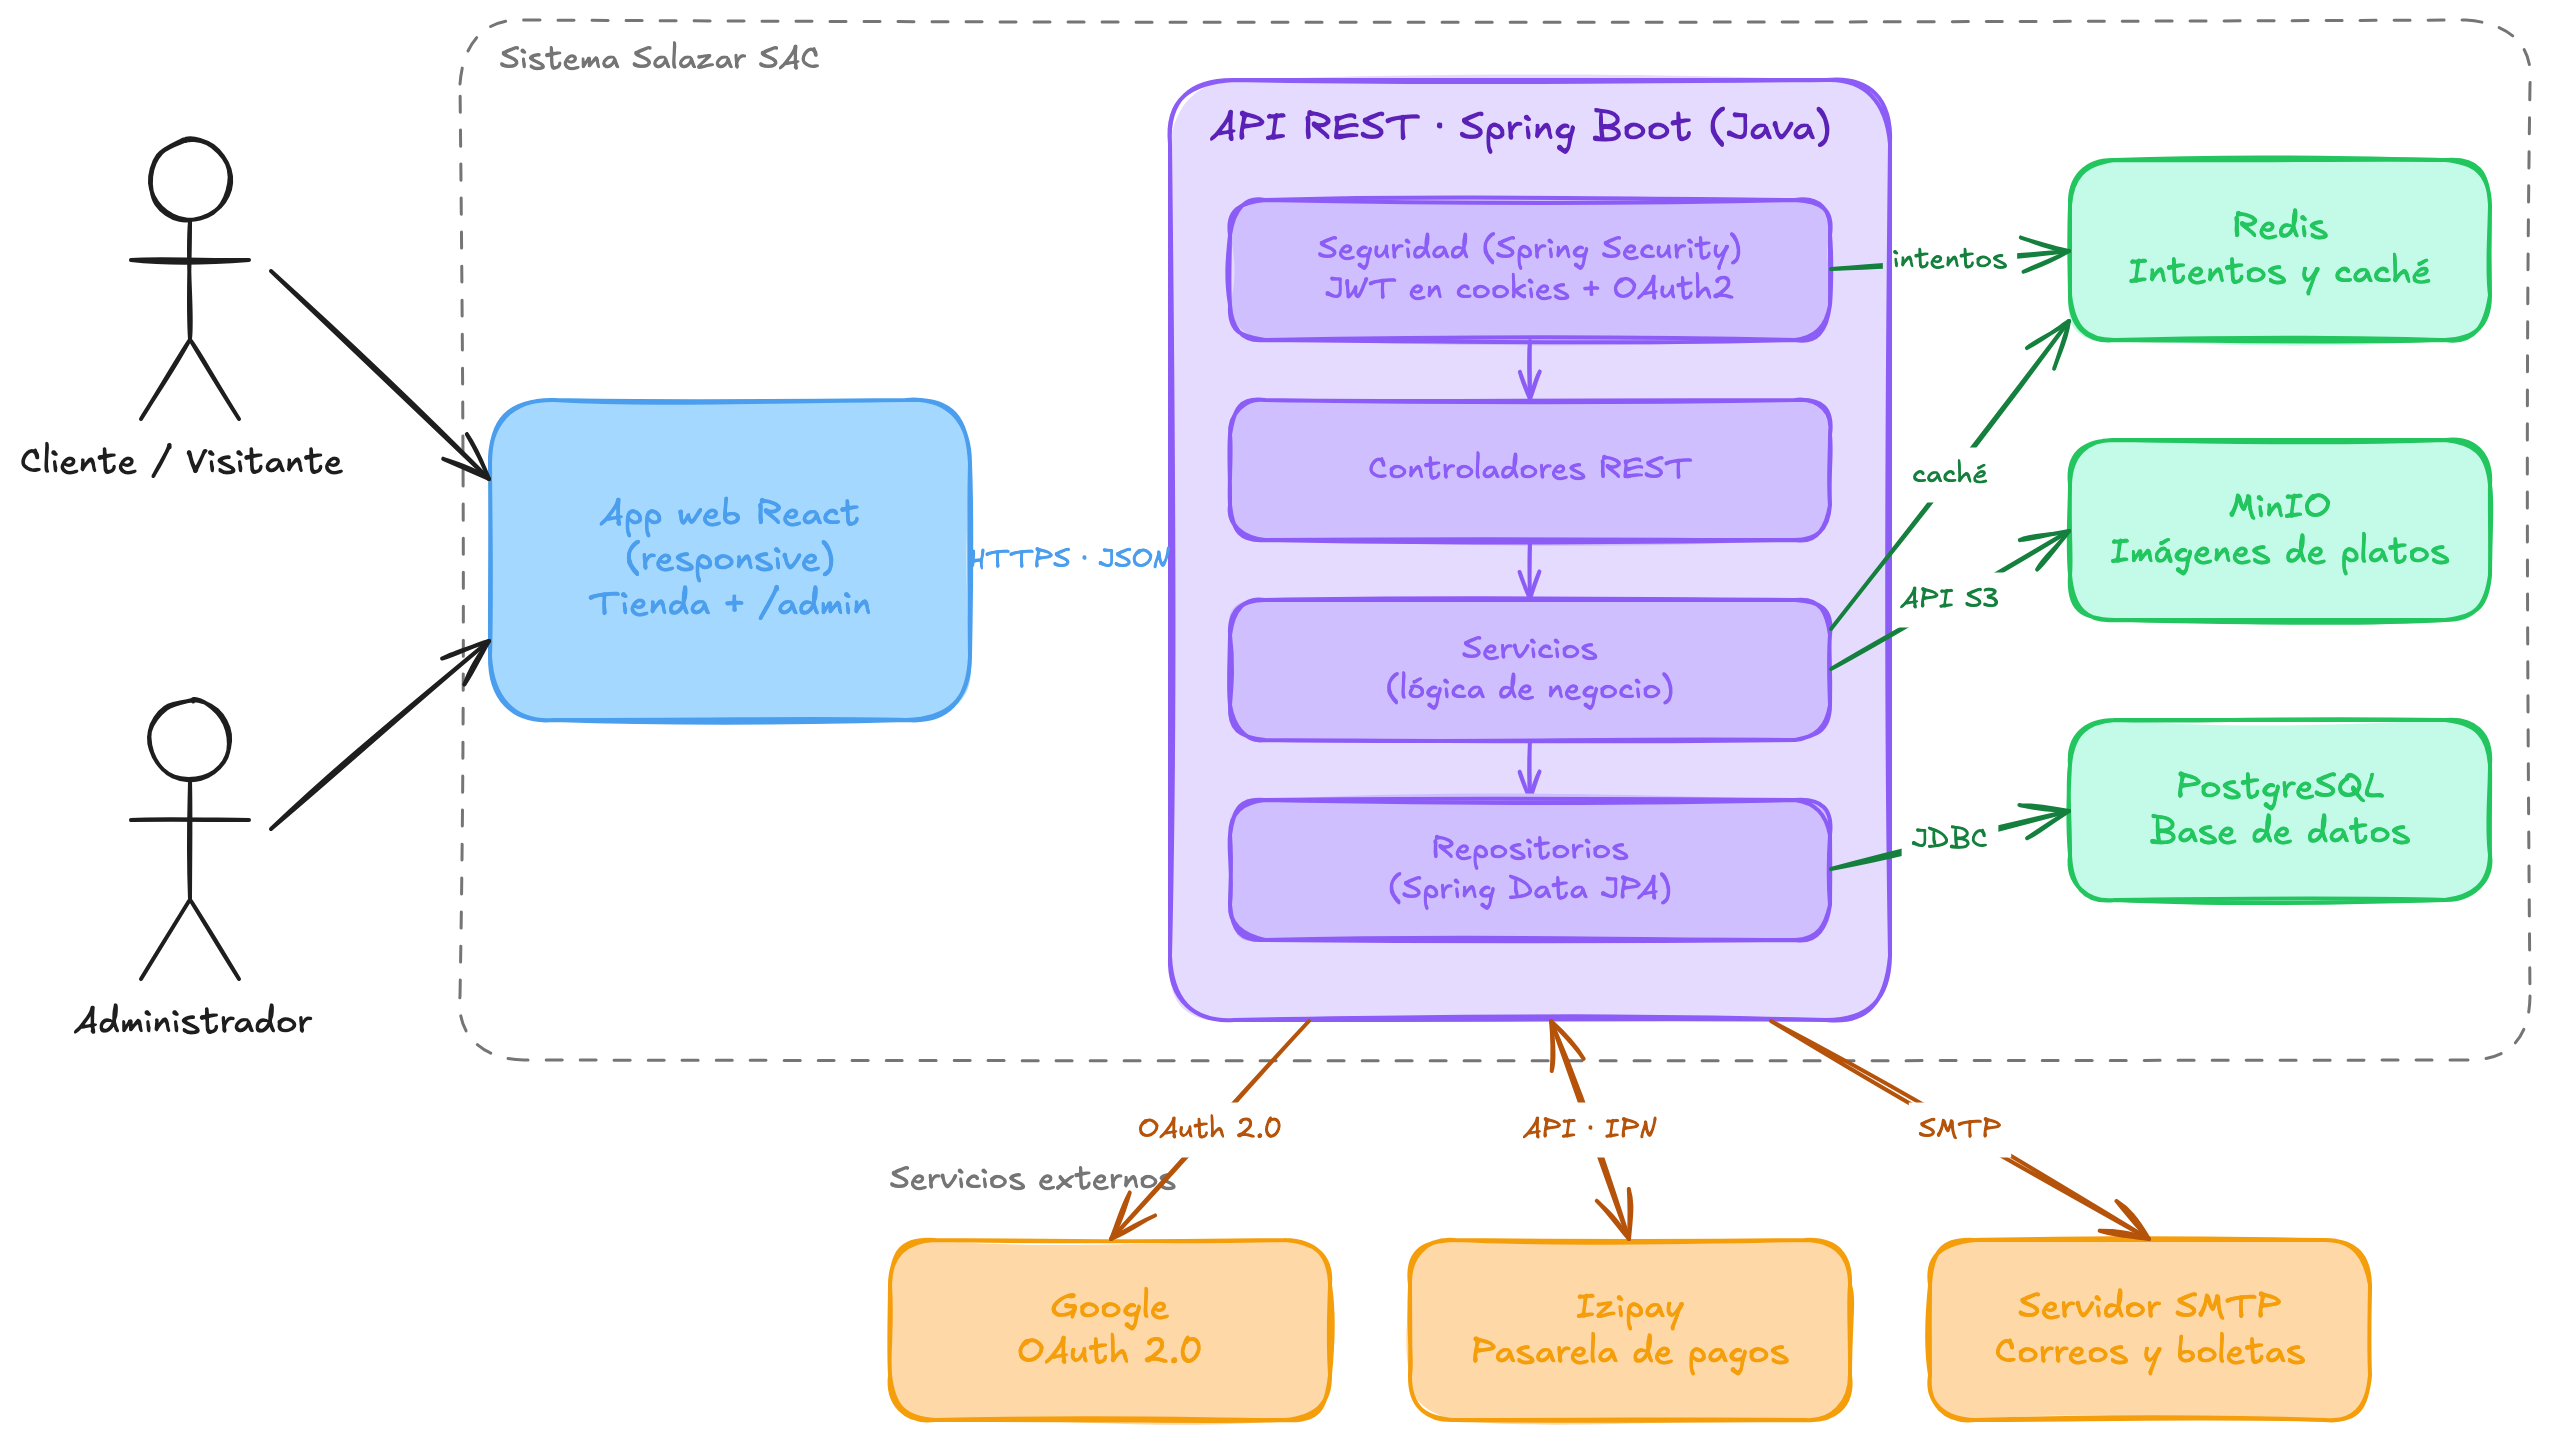
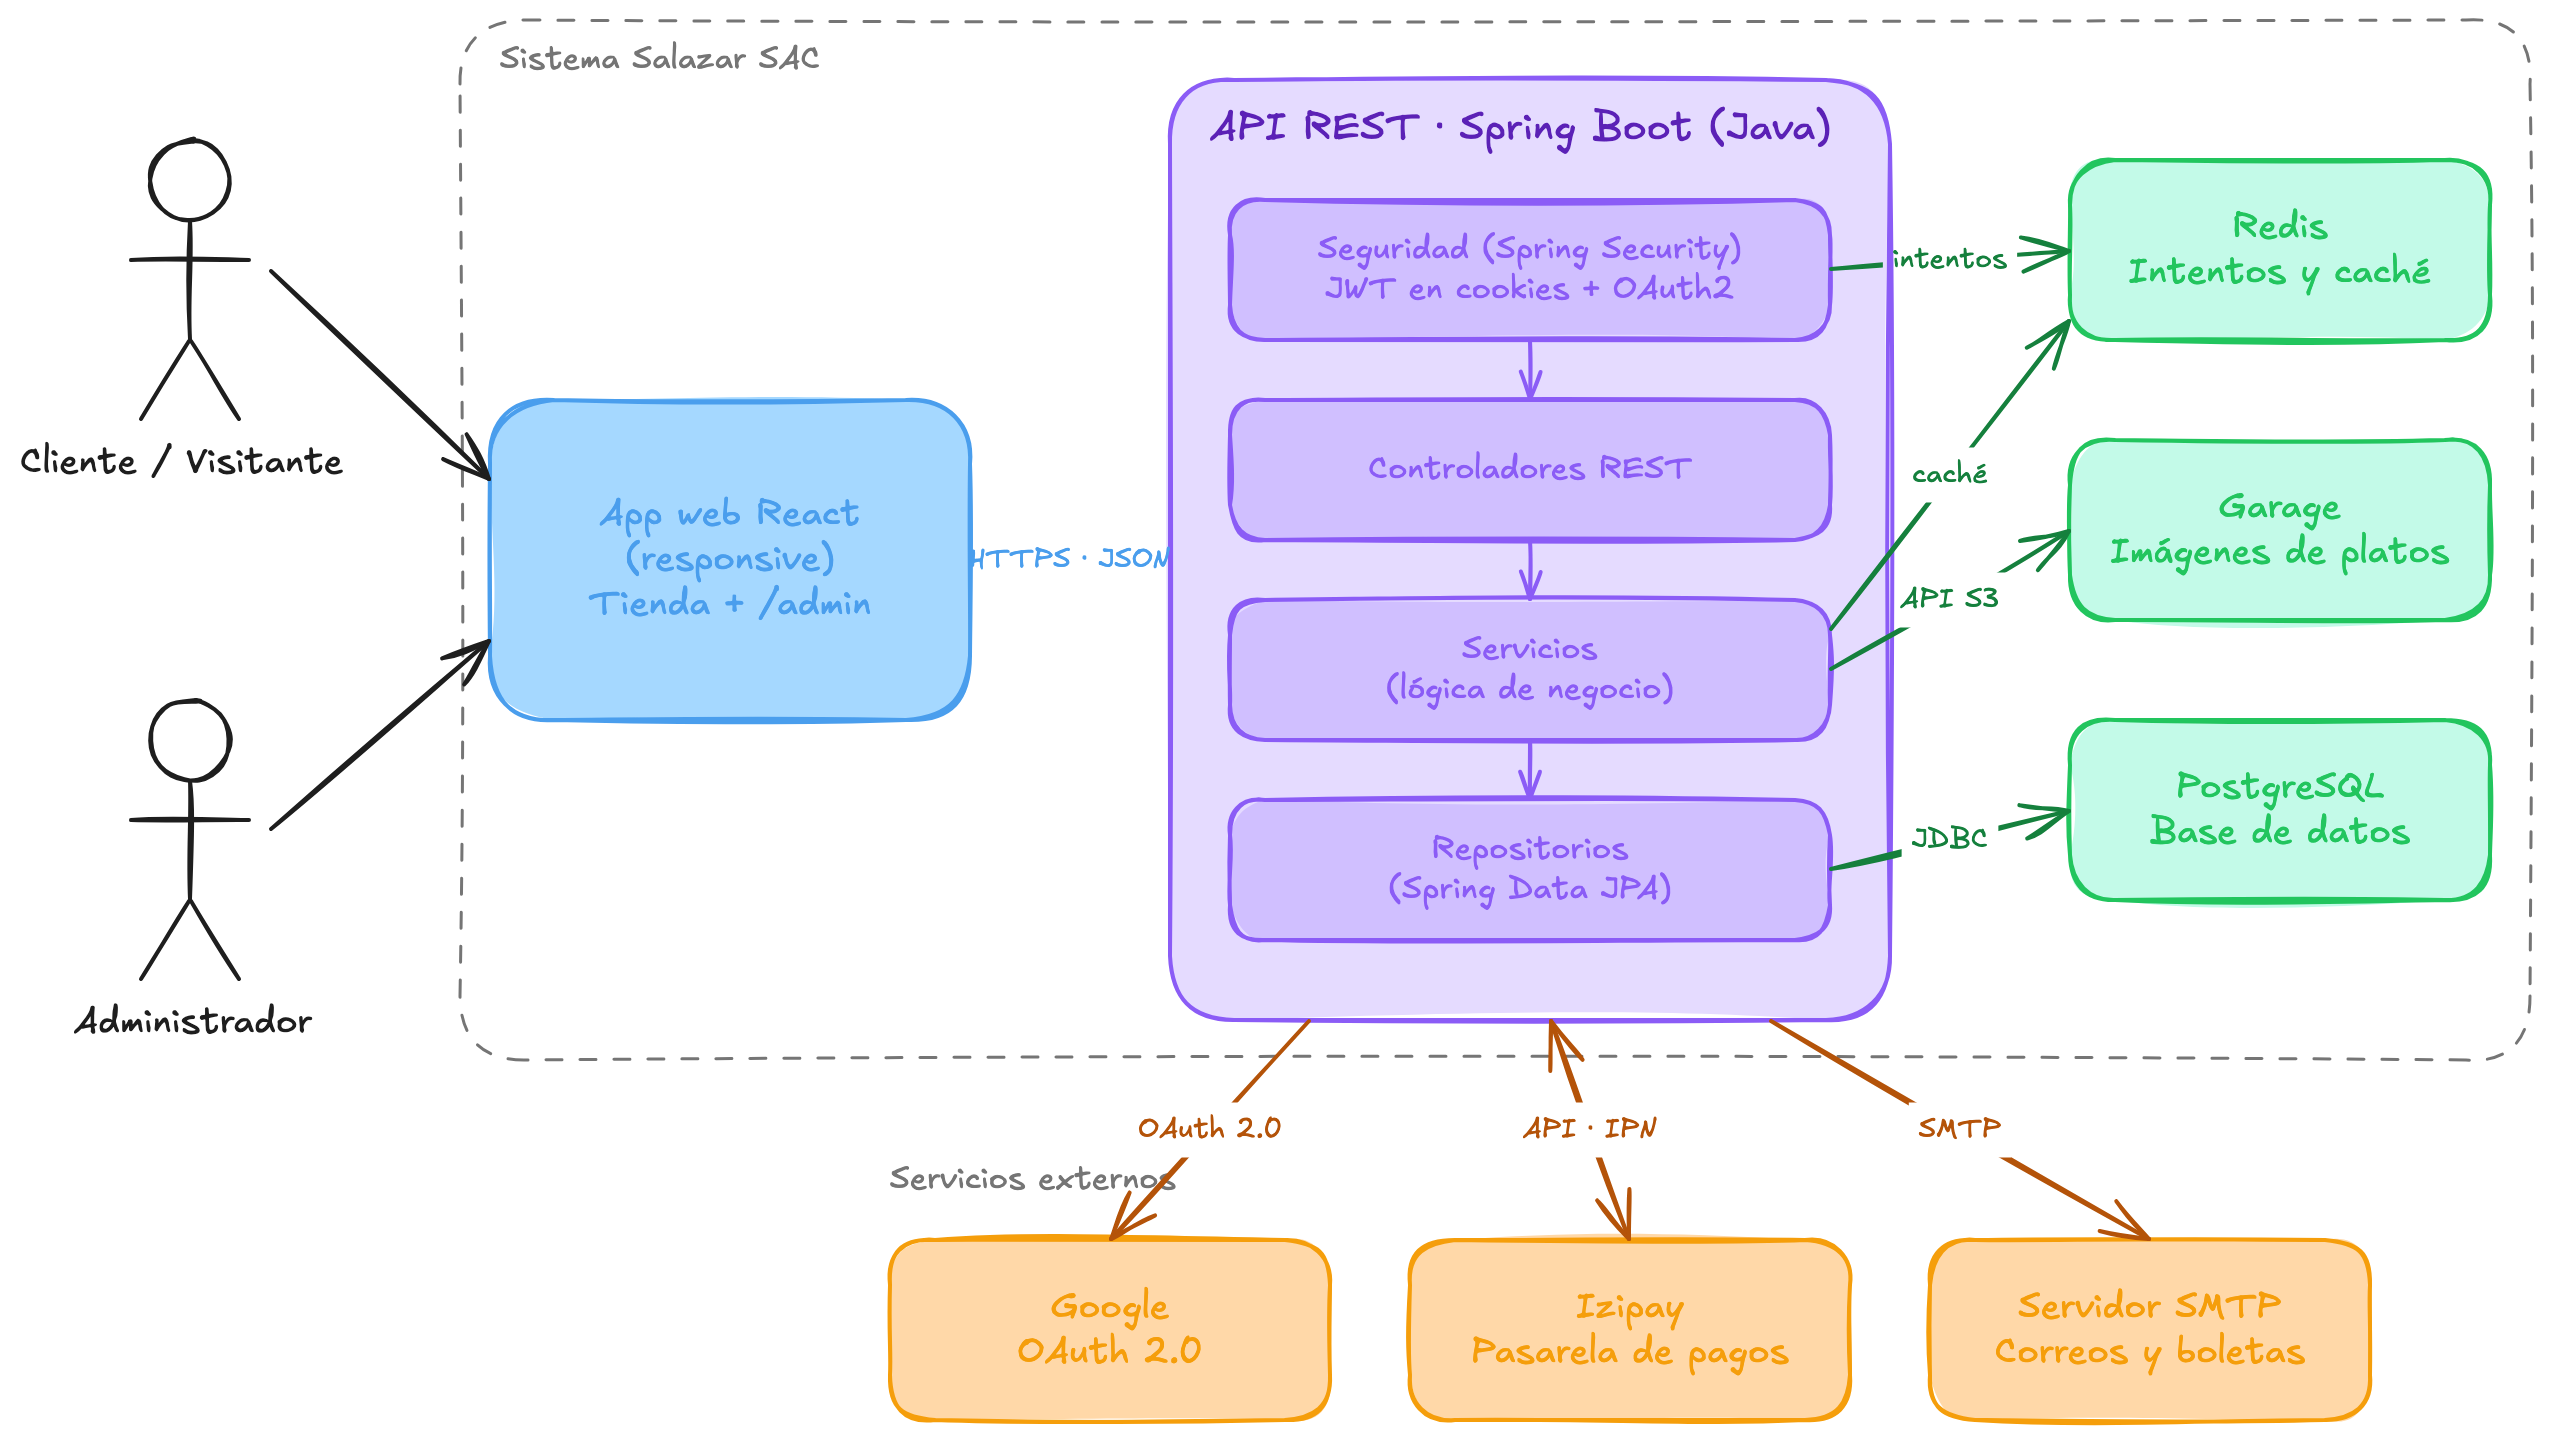
docs(docs): replace MinIO with Garage in architecture docs (HT-10)
Update the architecture, deployment and database descriptions, the diagram images and AGENTS.md.

diff --git a/AGENTS.md b/AGENTS.md
@@ -22,7 +22,7 @@ Definido en `docs/diagrama-de-arquitectura.md` y `docs/diagrama-de-despliegue.md
 
 - **Frontend**: React (responsive), una sola app que sirve la tienda y el panel `/admin` según el rol del usuario autenticado. Gestor de paquetes: **pnpm**. Se despliega en Cloudflare Pages.
 - **Backend**: **Spring Boot** (Java). Capas: Seguridad (Spring Security, JWT en cookies + OAuth2) → Controladores REST → Servicios (lógica de negocio) → Repositorios (Spring Data JPA).
-- **Datos**: PostgreSQL (base de datos principal, ver `docs/diagrama-de-base-de-datos.md`), Redis (intentos de login y caché, en memoria, sin persistencia), MinIO (imágenes de platos, vía API S3).
+- **Datos**: PostgreSQL (base de datos principal, ver `docs/diagrama-de-base-de-datos.md`), Redis (intentos de login y caché, en memoria, sin persistencia), Garage (almacenamiento de objetos compatible con S3 para las imágenes de platos; el backend lo usa con el SDK de AWS S3, ver `specs/ht-10-almacenamiento/`).
 - **Servicios externos**: Google OAuth 2.0 (login social), Izipay (pasarela de pagos), servidor SMTP (correos y confirmaciones).
 - **Infraestructura**: VPS con Docker Compose, Traefik como proxy inverso (TLS con Let's Encrypt).
 
@@ -54,9 +54,9 @@ Build tool: **Maven** con wrapper.
 ./scripts/dev.sh
 ```
 
-Levanta Postgres/Redis (`docker-compose.dev.yml`), genera `backend/.env` con un `APP_JWT_SECRET` la primera vez, arranca el backend y el frontend, y abre `/` en el navegador. Con `./scripts/dev.sh --lan` el frontend escucha en `0.0.0.0`, ajusta CORS y `VITE_API_URL` a la IP de la red local e imprime la URL para abrirla desde un celular en la misma red (Google OAuth no funciona así: exige `localhost` o dominio). Ctrl+C detiene backend y frontend; Postgres/Redis quedan corriendo (`docker compose -f docker-compose.dev.yml down` para bajarlos).
+Levanta Postgres, Redis y Garage (`docker-compose.dev.yml`), genera `backend/.env` con `APP_JWT_SECRET` y las credenciales de Garage (`GARAGE_RPC_SECRET`, `STORAGE_ACCESS_KEY`, `STORAGE_SECRET_KEY`) la primera vez, inicializa Garage (`scripts/garage-init.sh`: nodo, clave, bucket `platos` e imágenes de ejemplo), arranca el backend y el frontend, y abre `/` en el navegador. Con `./scripts/dev.sh --lan` el frontend escucha en `0.0.0.0`, ajusta CORS y `VITE_API_URL` a la IP de la red local e imprime la URL para abrirla desde un celular en la misma red (Google OAuth no funciona así: exige `localhost` o dominio). Ctrl+C detiene backend y frontend; Postgres/Redis/Garage quedan corriendo (`docker compose -f docker-compose.dev.yml down` para bajarlos).
 
-MinIO no se incluye: su imagen (`minio/minio`) está bloqueada en Docker Hub/quay.io desde que MinIO restringió la distribución de su contenedor (ver `specs/ht-09-entorno/spec.md`, casos borde). No confundir `docker-compose.dev.yml` con el `docker-compose` de producción del VPS (`docs/diagrama-de-despliegue.md`).
+Las imágenes de los platos se sirven desde Garage en `http://platos.web.garage.localhost:3902/` (`*.localhost` resuelve a la máquina local sin tocar `/etc/hosts`); la API S3 está en `:3900`. No se usa MinIO: su imagen dejó de poder descargarse (ver `specs/ht-10-almacenamiento/spec.md`). No confundir `docker-compose.dev.yml` con el `docker-compose` de producción del VPS (`docs/diagrama-de-despliegue.md`).
 
 ## Convenciones
 
@@ -83,7 +83,7 @@ Antes de construir una pantalla nueva, revisar si el componente/token necesario 
 - Migraciones de base de datos con **Flyway** (`src/main/resources/db/migration/`); Hibernate en modo `validate`, nunca autogenera el esquema.
 - Las integraciones con servicios externos (Google OAuth, Izipay, SMTP) van solo en la capa de **Servicios**, nunca en controladores ni se exponen al frontend.
 - Los tokens de sesión y de recuperación de contraseña se almacenan con hash (`token_hash`), nunca en texto plano — ver `docs/diagrama-de-base-de-datos.md`.
-- Redis no es fuente de verdad: solo intentos de login (anti fuerza bruta) y caché de lecturas frecuentes del catálogo. Los datos persistentes van en PostgreSQL o MinIO.
+- Redis no es fuente de verdad: solo intentos de login (anti fuerza bruta) y caché de lecturas frecuentes del catálogo. Los datos persistentes van en PostgreSQL o en el almacenamiento de objetos (Garage).
 
 ## Frontend
 

diff --git a/docs/diagrama-de-despliegue.md b/docs/diagrama-de-despliegue.md
@@ -18,11 +18,11 @@ El diagrama muestra en qué infraestructura física y en qué nodos se ejecuta c
 
 Servidor propio donde corre el backend, dentro de un entorno **Docker Compose**:
 
-- **Traefik (puertos 80/443, Let's Encrypt)**: proxy inverso y punto de entrada único del VPS. Enruta por dominio — `api.cevicheria-salazar.com` hacia Spring Boot (`:8080`) y `media.cevicheria-salazar.com` hacia MinIO (`:9000`) — y gestiona los certificados TLS automáticamente, para que toda comunicación con el navegador sea HTTPS.
+- **Traefik (puertos 80/443, Let's Encrypt)**: proxy inverso y punto de entrada único del VPS. Enruta por dominio — `api.cevicheria-salazar.com` hacia Spring Boot (`:8080`) y `media.cevicheria-salazar.com` hacia el endpoint web de Garage (`:3902`) — y gestiona los certificados TLS automáticamente, para que toda comunicación con el navegador sea HTTPS.
 - **Contenedor Spring Boot (API)**: ejecuta la API REST descrita en el diagrama de arquitectura (seguridad, controladores, servicios, repositorios). Atiende todas las historias de usuario que requieren backend: autenticación (HU-01 a HU-06), catálogo (HU-07 a HU-11), carrito y checkout (HU-12 a HU-22), perfil (HU-23 a HU-27) y administración (HU-28 a HU-34).
 - **Contenedor Redis**: expuesto a la API en el puerto `:6379` dentro de la red de Docker Compose. Guarda los intentos de login para mitigar fuerza bruta (seguridad de HU-02) y la caché de lecturas frecuentes del catálogo (HU-07, HU-11). No tiene volumen asociado ni ruta pública en Traefik, porque su contenido es transitorio y solo lo consume la API internamente.
 - **Contenedor PostgreSQL**: base de datos relacional de la API, persistida en el volumen **postgres_data** para que los datos sobrevivan a reinicios o actualizaciones del contenedor. Es la implementación física del modelo entidad-relación de **HT-06**.
-- **Contenedor MinIO**: almacenamiento de imágenes de platos (HU-08, HU-29), accedido por la API vía API S3 y persistido en el volumen **minio_data**. Traefik lo expone bajo su propio subdominio (`media.cevicheria-salazar.com`) para servir las imágenes directamente sin pasar por la API.
+- **Contenedor Garage**: almacenamiento de imágenes de platos (HU-08, HU-29), compatible con S3 y persistido en el volumen **garage_data**. La API lo usa por su API S3 (`:3900`, solo dentro de la red de Docker Compose) y Traefik expone su endpoint web (`:3902`) bajo el subdominio `media.cevicheria-salazar.com`, para servir las imágenes directamente sin pasar por la API. El bucket de imágenes tiene como alias ese dominio y habilitado el modo web (lectura pública); la escritura exige la clave de la aplicación.
 
 ### Servicios externos
 
@@ -33,6 +33,6 @@ Servidor propio donde corre el backend, dentro de un entorno **Docker Compose**:
 ### Flujo de despliegue
 
 1. El navegador del Cliente/Administrador resuelve `cevicheria-salazar.com` hacia Cloudflare Pages para obtener la app React, y `api.cevicheria-salazar.com` / `media.cevicheria-salazar.com` hacia el VPS para los datos y las imágenes.
-2. Traefik recibe todo el tráfico HTTPS del VPS en los puertos 80/443, termina TLS con Let's Encrypt y enruta internamente a cada contenedor por su puerto interno (`:8080` API, `:9000` MinIO).
-3. Dentro de la red de Docker Compose, la API habla con PostgreSQL por el puerto `:5432`, con MinIO por API S3 y con Redis por el puerto `:6379`; los dos primeros persisten en volúmenes dedicados, mientras que Redis queda en memoria y se descarta si el contenedor se reinicia.
+2. Traefik recibe todo el tráfico HTTPS del VPS en los puertos 80/443, termina TLS con Let's Encrypt y enruta internamente a cada contenedor por su puerto interno (`:8080` API, `:3902` Garage).
+3. Dentro de la red de Docker Compose, la API habla con PostgreSQL por el puerto `:5432`, con Garage por API S3 y con Redis por el puerto `:6379`; los dos primeros persisten en volúmenes dedicados, mientras que Redis queda en memoria y se descarta si el contenedor se reinicia.
 4. Solo la API sale hacia los servicios externos (Google, Izipay, SMTP); el frontend en Cloudflare Pages nunca los contacta directamente.

diff --git a/docs/diagrama-de-arquitectura.md b/docs/diagrama-de-arquitectura.md
@@ -22,7 +22,7 @@ Backend único que atiende a la app web, organizado en capas:
 ### Almacenamiento
 
 - **PostgreSQL (base de datos)**: persiste usuarios, catálogo, carritos, pedidos y direcciones; es el modelo entidad-relación de la historia técnica HT-06. Soporta el historial de pedidos (HU-25) y el seguimiento de su estado (HU-26).
-- **MinIO (imágenes de platos)**: almacena las fotos de los platos que se muestran en el detalle del catálogo (HU-08) y que el administrador sube o reemplaza al crear/editar un plato (HU-29). La API accede a él mediante una API compatible con S3.
+- **Garage (imágenes de platos)**: almacenamiento de objetos compatible con S3 que guarda las fotos de los platos que se muestran en el catálogo (HU-07, HU-08) y que el administrador sube o reemplaza al crear/editar un plato (HU-29). La API accede a él con el SDK de AWS S3 (HT-10); los navegadores leen las imágenes directamente de su endpoint web público.
 - **Redis (intentos y caché)**: almacén en memoria de dos usos — registrar intentos de login para mitigar ataques de fuerza bruta (seguridad de HU-02) y cachear resultados de la capa de servicios para acelerar las lecturas más frecuentes del catálogo.
 
 ### Servicios externos
@@ -36,4 +36,4 @@ Backend único que atiende a la app web, organizado en capas:
 1. El Cliente/Visitante y el Administrador acceden únicamente a través de la misma app web React, nunca directamente a la API.
 2. Toda petición pasa por la capa de seguridad antes de llegar a los controladores, servicios y repositorios.
 3. Los servicios externos (Google, Izipay, SMTP) se integran solo desde la capa de servicios de la API, nunca desde el frontend, manteniendo las credenciales y la lógica de integración en el backend.
-4. Redis actúa como componente de soporte transversal: la capa de seguridad lo usa para intentos de login y la capa de servicios para caché, pero ningún dato persistente vive ahí — PostgreSQL y MinIO siguen siendo las únicas fuentes de verdad.
+4. Redis actúa como componente de soporte transversal: la capa de seguridad lo usa para intentos de login y la capa de servicios para caché, pero ningún dato persistente vive ahí — PostgreSQL y Garage siguen siendo las únicas fuentes de verdad.

diff --git a/docs/diagrama-de-base-de-datos.md b/docs/diagrama-de-base-de-datos.md
@@ -43,9 +43,9 @@ Por ahora modela el dominio de **autenticación y registro** (épica [E1](epicas
   - `is_active`: un plato inactivo no aparece en el catálogo.
   - `created_at`: fecha de creación.
 
-- **product_images**: imágenes de un plato, guardadas en MinIO (HU-07, HU-08).
+- **product_images**: imágenes de un plato, guardadas en el almacenamiento de objetos S3 (Garage; HU-07, HU-08).
   - `product_id`: plato al que pertenece; se borran en cascada con el plato.
-  - `path`: clave del objeto dentro del bucket de MinIO, no la URL completa (la URL pública la arma el backend).
+  - `path`: clave del objeto dentro del bucket de imágenes, no la URL completa (la URL pública la arma el backend).
   - `position`: orden dentro del plato; la de menor posición es la imagen principal.
   - `created_at`: fecha en que se registró la imagen.
 
